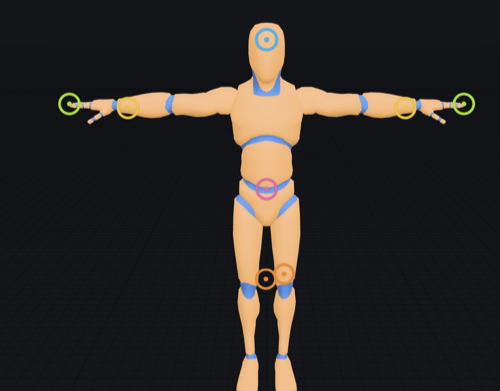
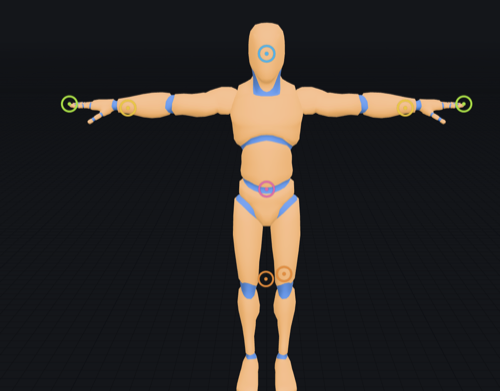
fix(app): correct the marker guide dots and shrink rings so close joints separate
The guide render had the chin ring on the forehead (the chin slot maps to the
`head` bone) and the knee rings overlapping into one blob (rings too large for the
close-together legs). Now: the guide seeds the chin at jaw level (midway between the
head and neck bones), and the marker rings are a touch smaller (3.8% vs 5% of the
model span) so the two knees read as two distinct rings — matching the reference
guide. New guide asset regenerated from that render.

diff --git a/app/src/main.ts b/app/src/main.ts
@@ -1217,7 +1217,17 @@ async function maybeAutoload(): Promise<void> {
     }
     await enterMarkerMode(template)
     for (const slot of markerSetFor(template) ?? []) {
-      const at = truth.get(slot.bone)
+      let at = truth.get(slot.bone)
+      // The chin slot maps to the `head` bone, which sits at the forehead; the
+      // chin/jaw is lower. For the guide render, drop it to jaw level (midway
+      // between the head and neck bones) so the guide matches where to place it.
+      if (slot.id === 'chin') {
+        const head = truth.get('head')
+        const neck = truth.get('neck_01')
+        if (head !== undefined && neck !== undefined) {
+          at = [head[0], (head[1] + neck[1]) / 2, head[2]]
+        }
+      }
       if (at !== undefined) markerPositions.set(slot.id, at)
     }
     activeSlot = null

diff --git a/app/src/viewport/scene.ts b/app/src/viewport/scene.ts
@@ -1159,7 +1159,7 @@ export function createViewport(): Viewport {
       }
       markerSprites = []
       // ~5% of the model's diagonal, so a ring reads clearly at any creature scale.
-      const radius = Math.max(bounds.getSize(new Vector3()).length() * 0.05, 0.02)
+      const radius = Math.max(bounds.getSize(new Vector3()).length() * 0.038, 0.02)
       for (const marker of markers) {
         const material = new SpriteMaterial({
           map: ringTexture(marker.color),
